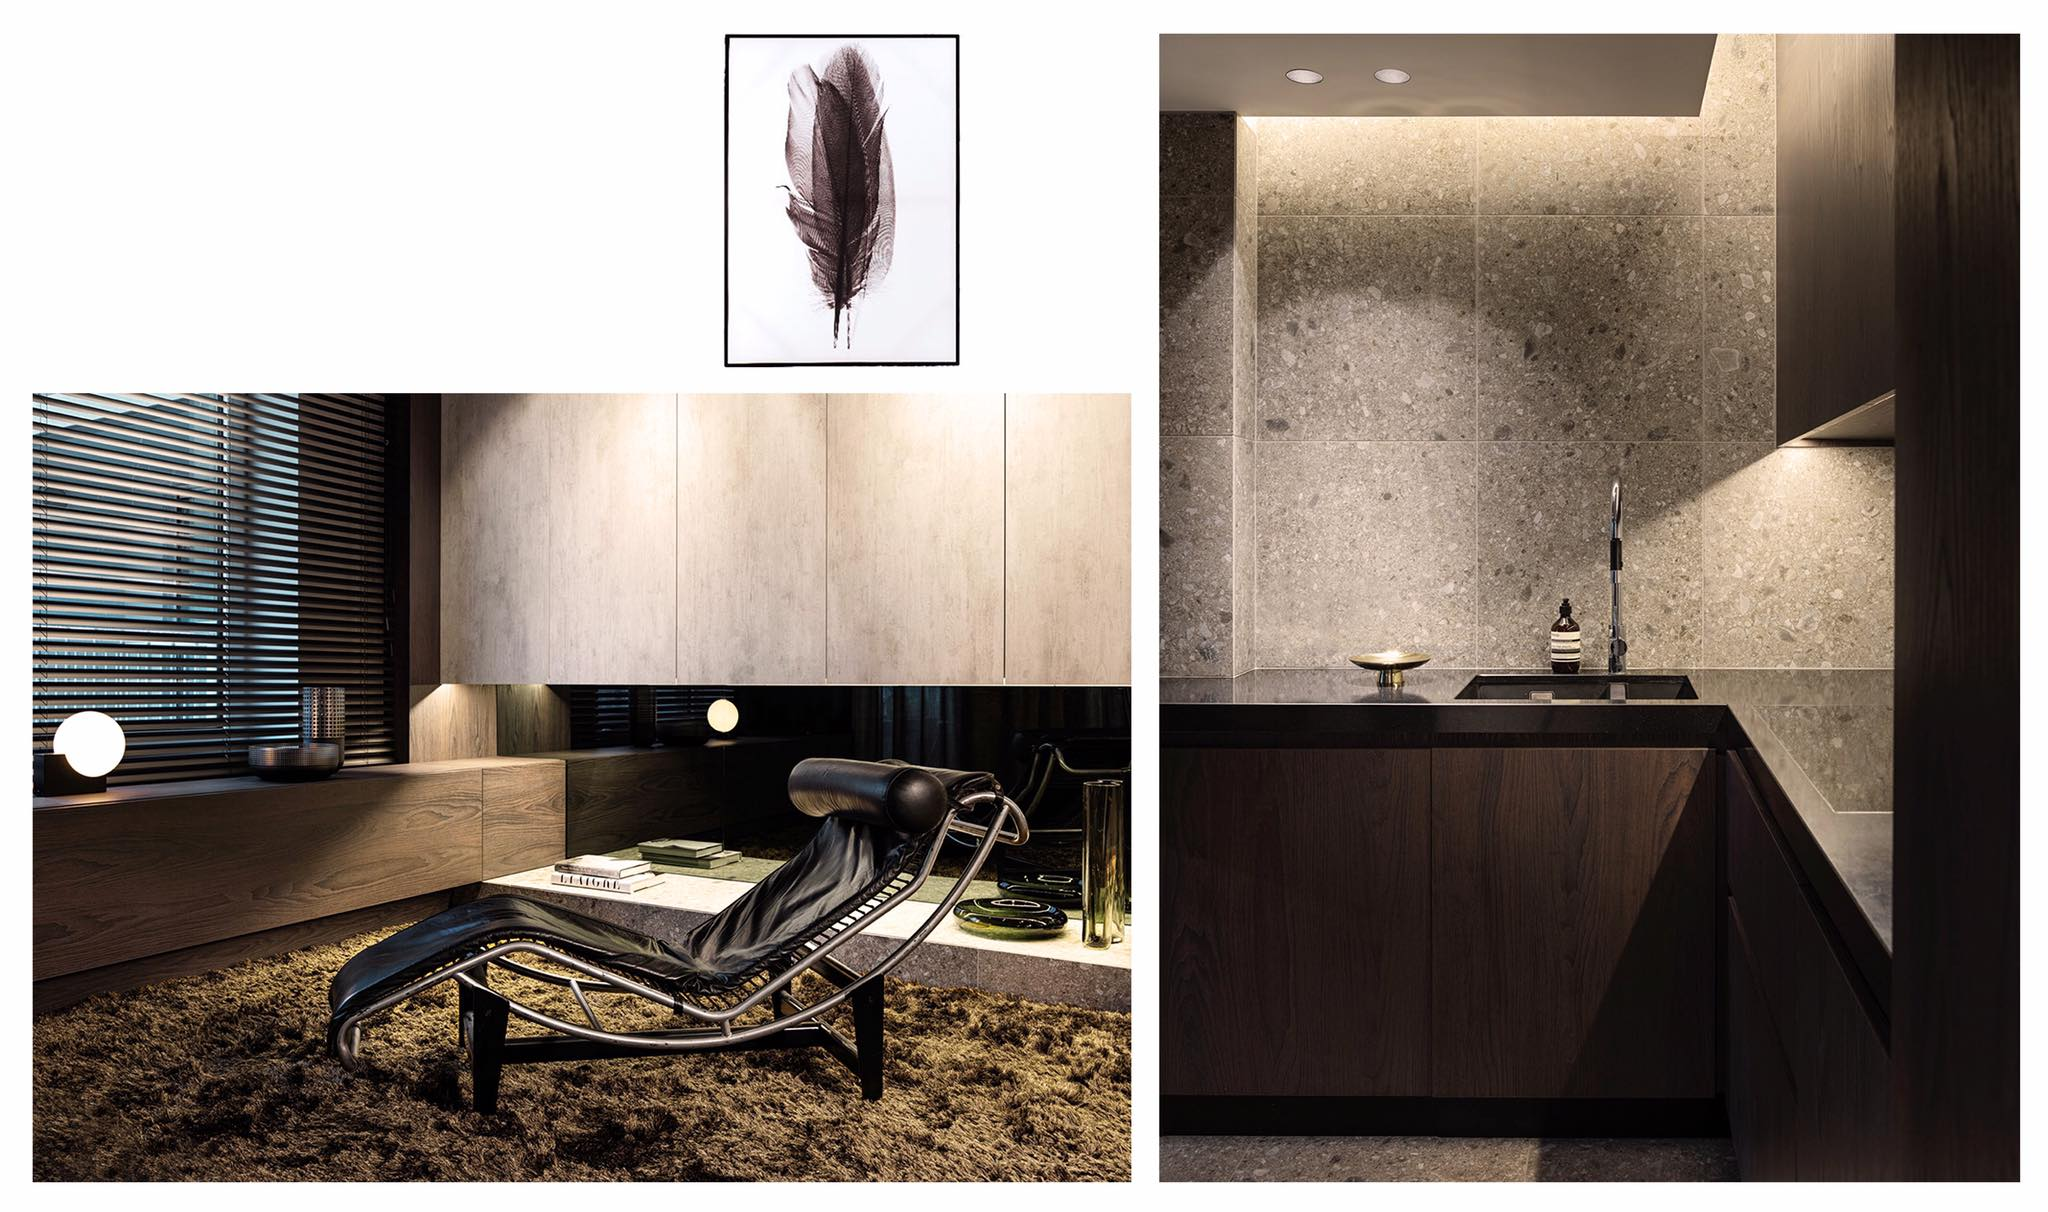
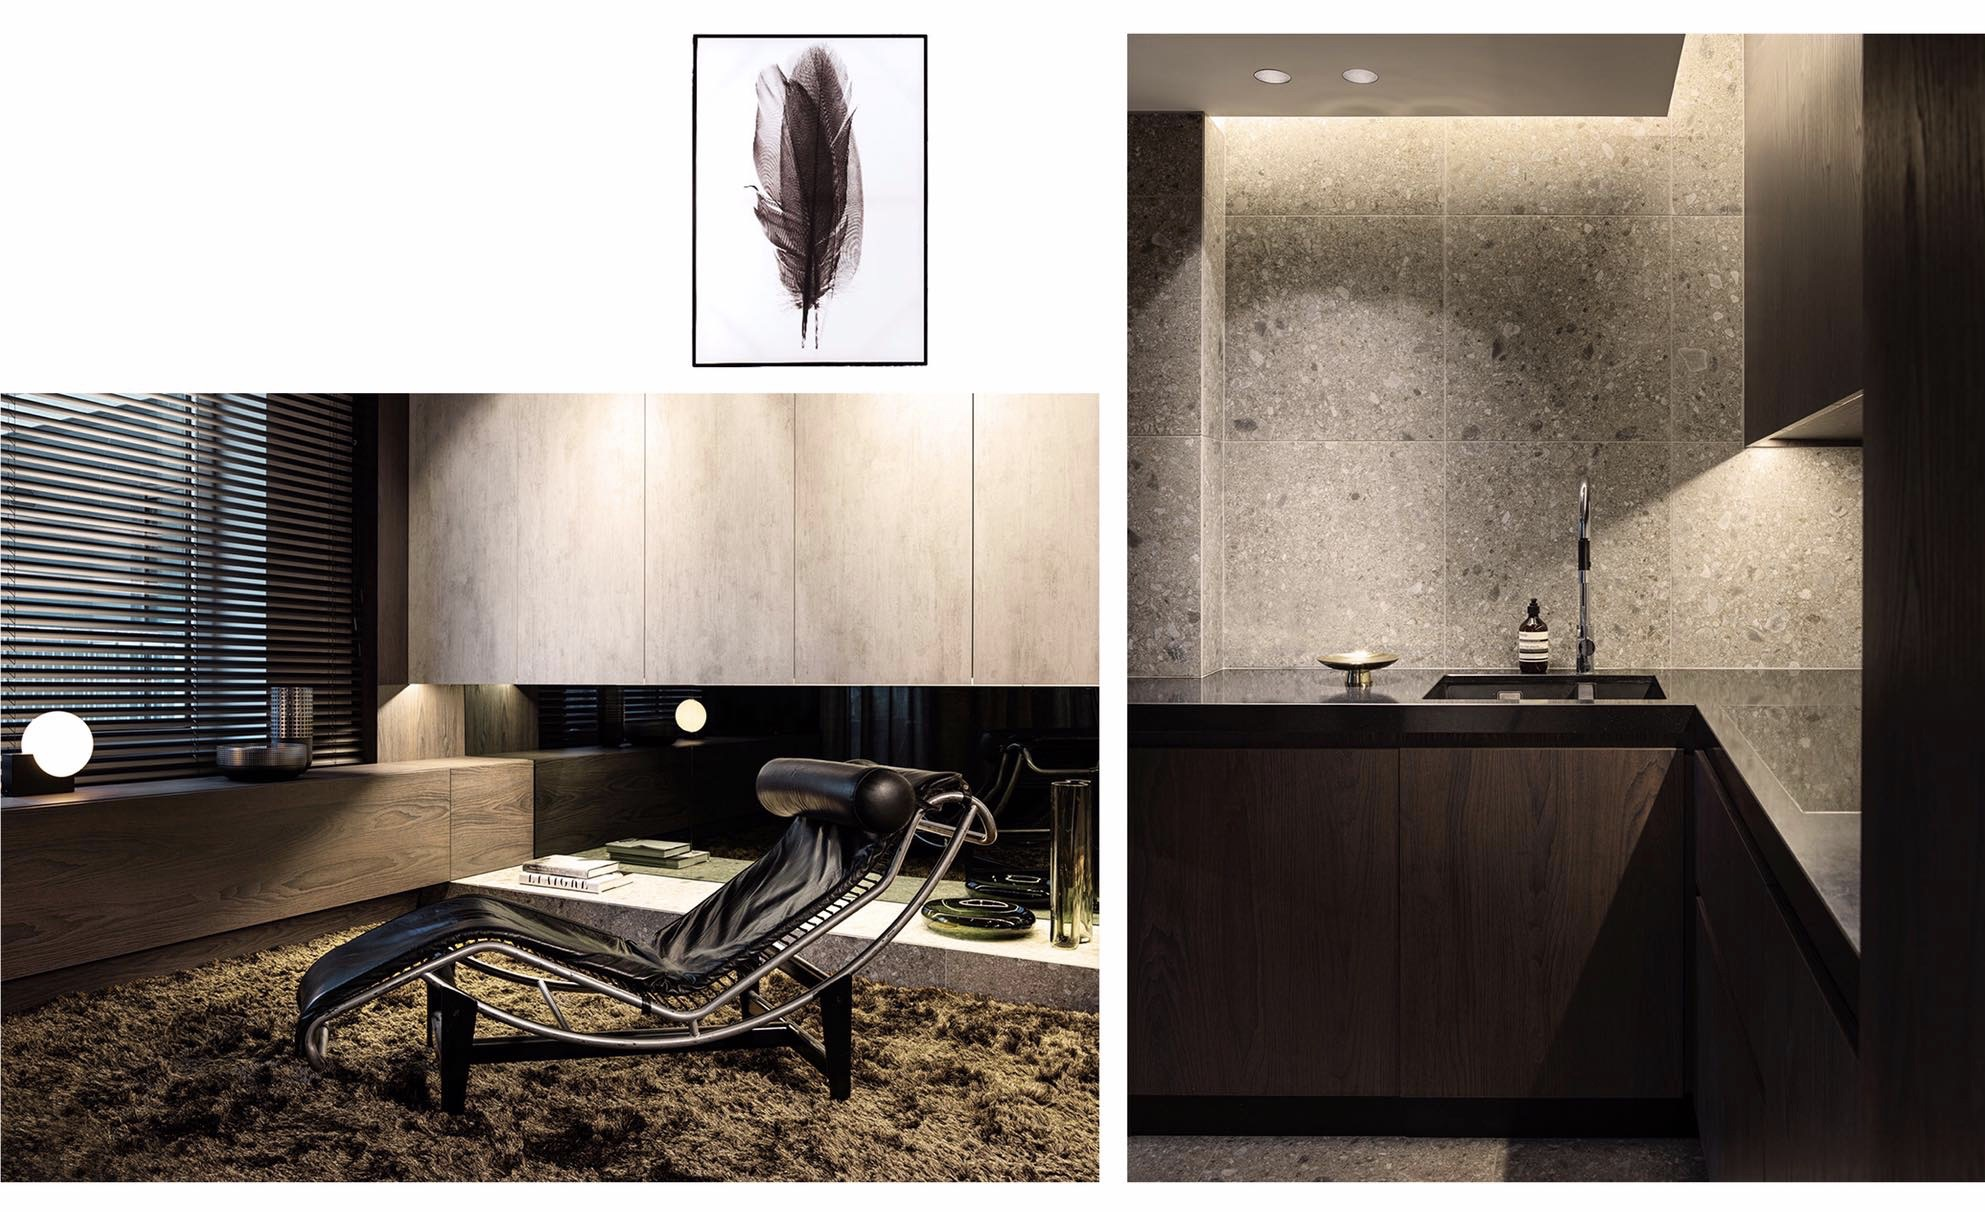
fotosgecropped, inprogress pp, overlap projects

diff --git a/projectentest/index.html b/projectentest/index.html
@@ -31,8 +31,8 @@
         <div class="mt-4"><span>pp</span></div>
       </div>
 
-      <div class="row foto">
-        <div class="col">
+      <div class="row foto position-relative">
+        <div class="col pl-0">
           <img class="img-fluid" src="/images/Dubois Brussels/Dubois Brussels firstpage.jpg" />
         </div>
 
@@ -40,10 +40,15 @@
           
         </div>
 
-        <div class="col">
+        <div class="col pr-0">
           <img class="img-fluid" src="/images/Penthouse Hebben/Penthouse Hebben firstpage.jpg" />
         </div>
+         <div class="active1 position-absolute mt-5">
+          <img class="img-fluid" src="/images/Dubois Brussels/Dubois Brussel 01.jpg" />
+
+        </div> 
       </div>
+      
 
       <div class="row footer d-flex justify-content-center mt-4 mb-4">
         <a href="../contact/index.html" class="btn btn-dark px-5" role="button"

diff --git a/index.html b/index.html
@@ -34,7 +34,7 @@
       
 
       <div class="row foto">
-        <div class="col tiles">
+        <div class="col tiles p-0">
           <a class="tile" href="../ted/index.html" target="_blank">
             <img class="img-fluid" src="images/01 frontpage.jpg" />
             <div class="details"><span class="title">About Ted</span></div>
@@ -52,7 +52,7 @@
           </a>
         </div>
 
-        <div class="col tiles">
+        <div class="col tiles p-0">
           <a class="tile" href="../inprogress/index.html" target="_blank">
             <img class="img-fluid" src="images/03 frontpage.jpg" />
             <div class="details"><span class="title">In progress</span></div>

diff --git a/inprogress/index.html b/inprogress/index.html
@@ -39,14 +39,14 @@
       </div>
 
       <div class="row foto">
-        <div class="col-4">
+        <div class="col-4 p-0">
           <img class="img-fluid" src="/images/03 frontpage.jpg" />
         </div>
-        <div class="col-8 d-flex align-items-end">
-          <div class="row mb-5">
+        <div class="col-8 pr-0 d-flex flex-column align-self-end">
+          <div class="mb-1">
             <img class="img-fluid" src="/images/em progresso/inprogress1.jpg"/>
           </div>
-          <div class="row mb-4">
+          <div class="mb-4 d-flex flex-column align-items-end">
             <span>pp</span>
           </div>
           

diff --git a/hoover.css b/hoover.css
@@ -10,7 +10,6 @@
   }*/
 .tiles .tile {
   display: inline-block;
-  margin: 10px;
   text-align: left;
   opacity: 0.99;
   overflow: hidden;
